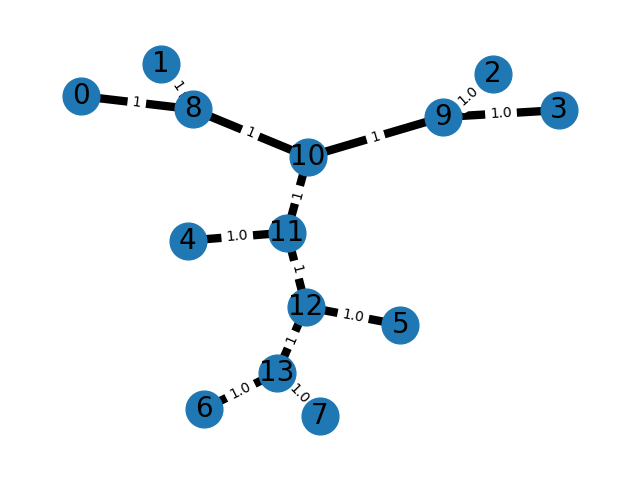
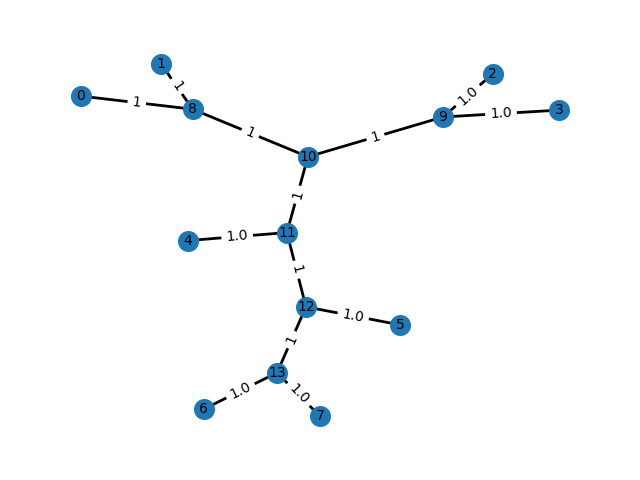
add 10x10 examples

diff --git a/additive phylogeny.py b/additive phylogeny.py
@@ -105,11 +105,11 @@ def weighted_adjacency_list(filename: str, graph: nx.Graph) -> None:
 
 def save_result(graph: nx.Graph, path: str) -> None:
     position = nx.spring_layout(graph, seed=11)
-    nx.draw_networkx_nodes(graph, position, node_size=700)
-    nx.draw_networkx_edges(graph, position, width=6)
+    nx.draw_networkx_nodes(graph, position, node_size=200)
+    nx.draw_networkx_edges(graph, position, width=2)
     labels = nx.get_edge_attributes(graph, 'weight')
     nx.draw_networkx_edge_labels(graph, position, edge_labels=labels)
-    nx.draw_networkx_labels(graph, position, font_size=20, font_family="sans-serif")
+    nx.draw_networkx_labels(graph, position, font_size=10, font_family="sans-serif")
 
     ax = plt.gca()
     ax.margins(0.08)
@@ -121,7 +121,8 @@ def save_result(graph: nx.Graph, path: str) -> None:
 
 if __name__ == "__main__":
     input_dir, output_dir = 'examples/input/', 'examples/output/'
-    files = ['n4_1.txt', 'n4_2.txt', 'n5_1.txt', 'n8_1.txt']
+    files = ['n4_1.txt', 'n4_2.txt', 'n5_1.txt', 'n8_1.txt', 'n10_1.txt', 'n10_2.txt',
+             'n10_3.txt']
 
     for f in files:
         input_path = input_dir + f
